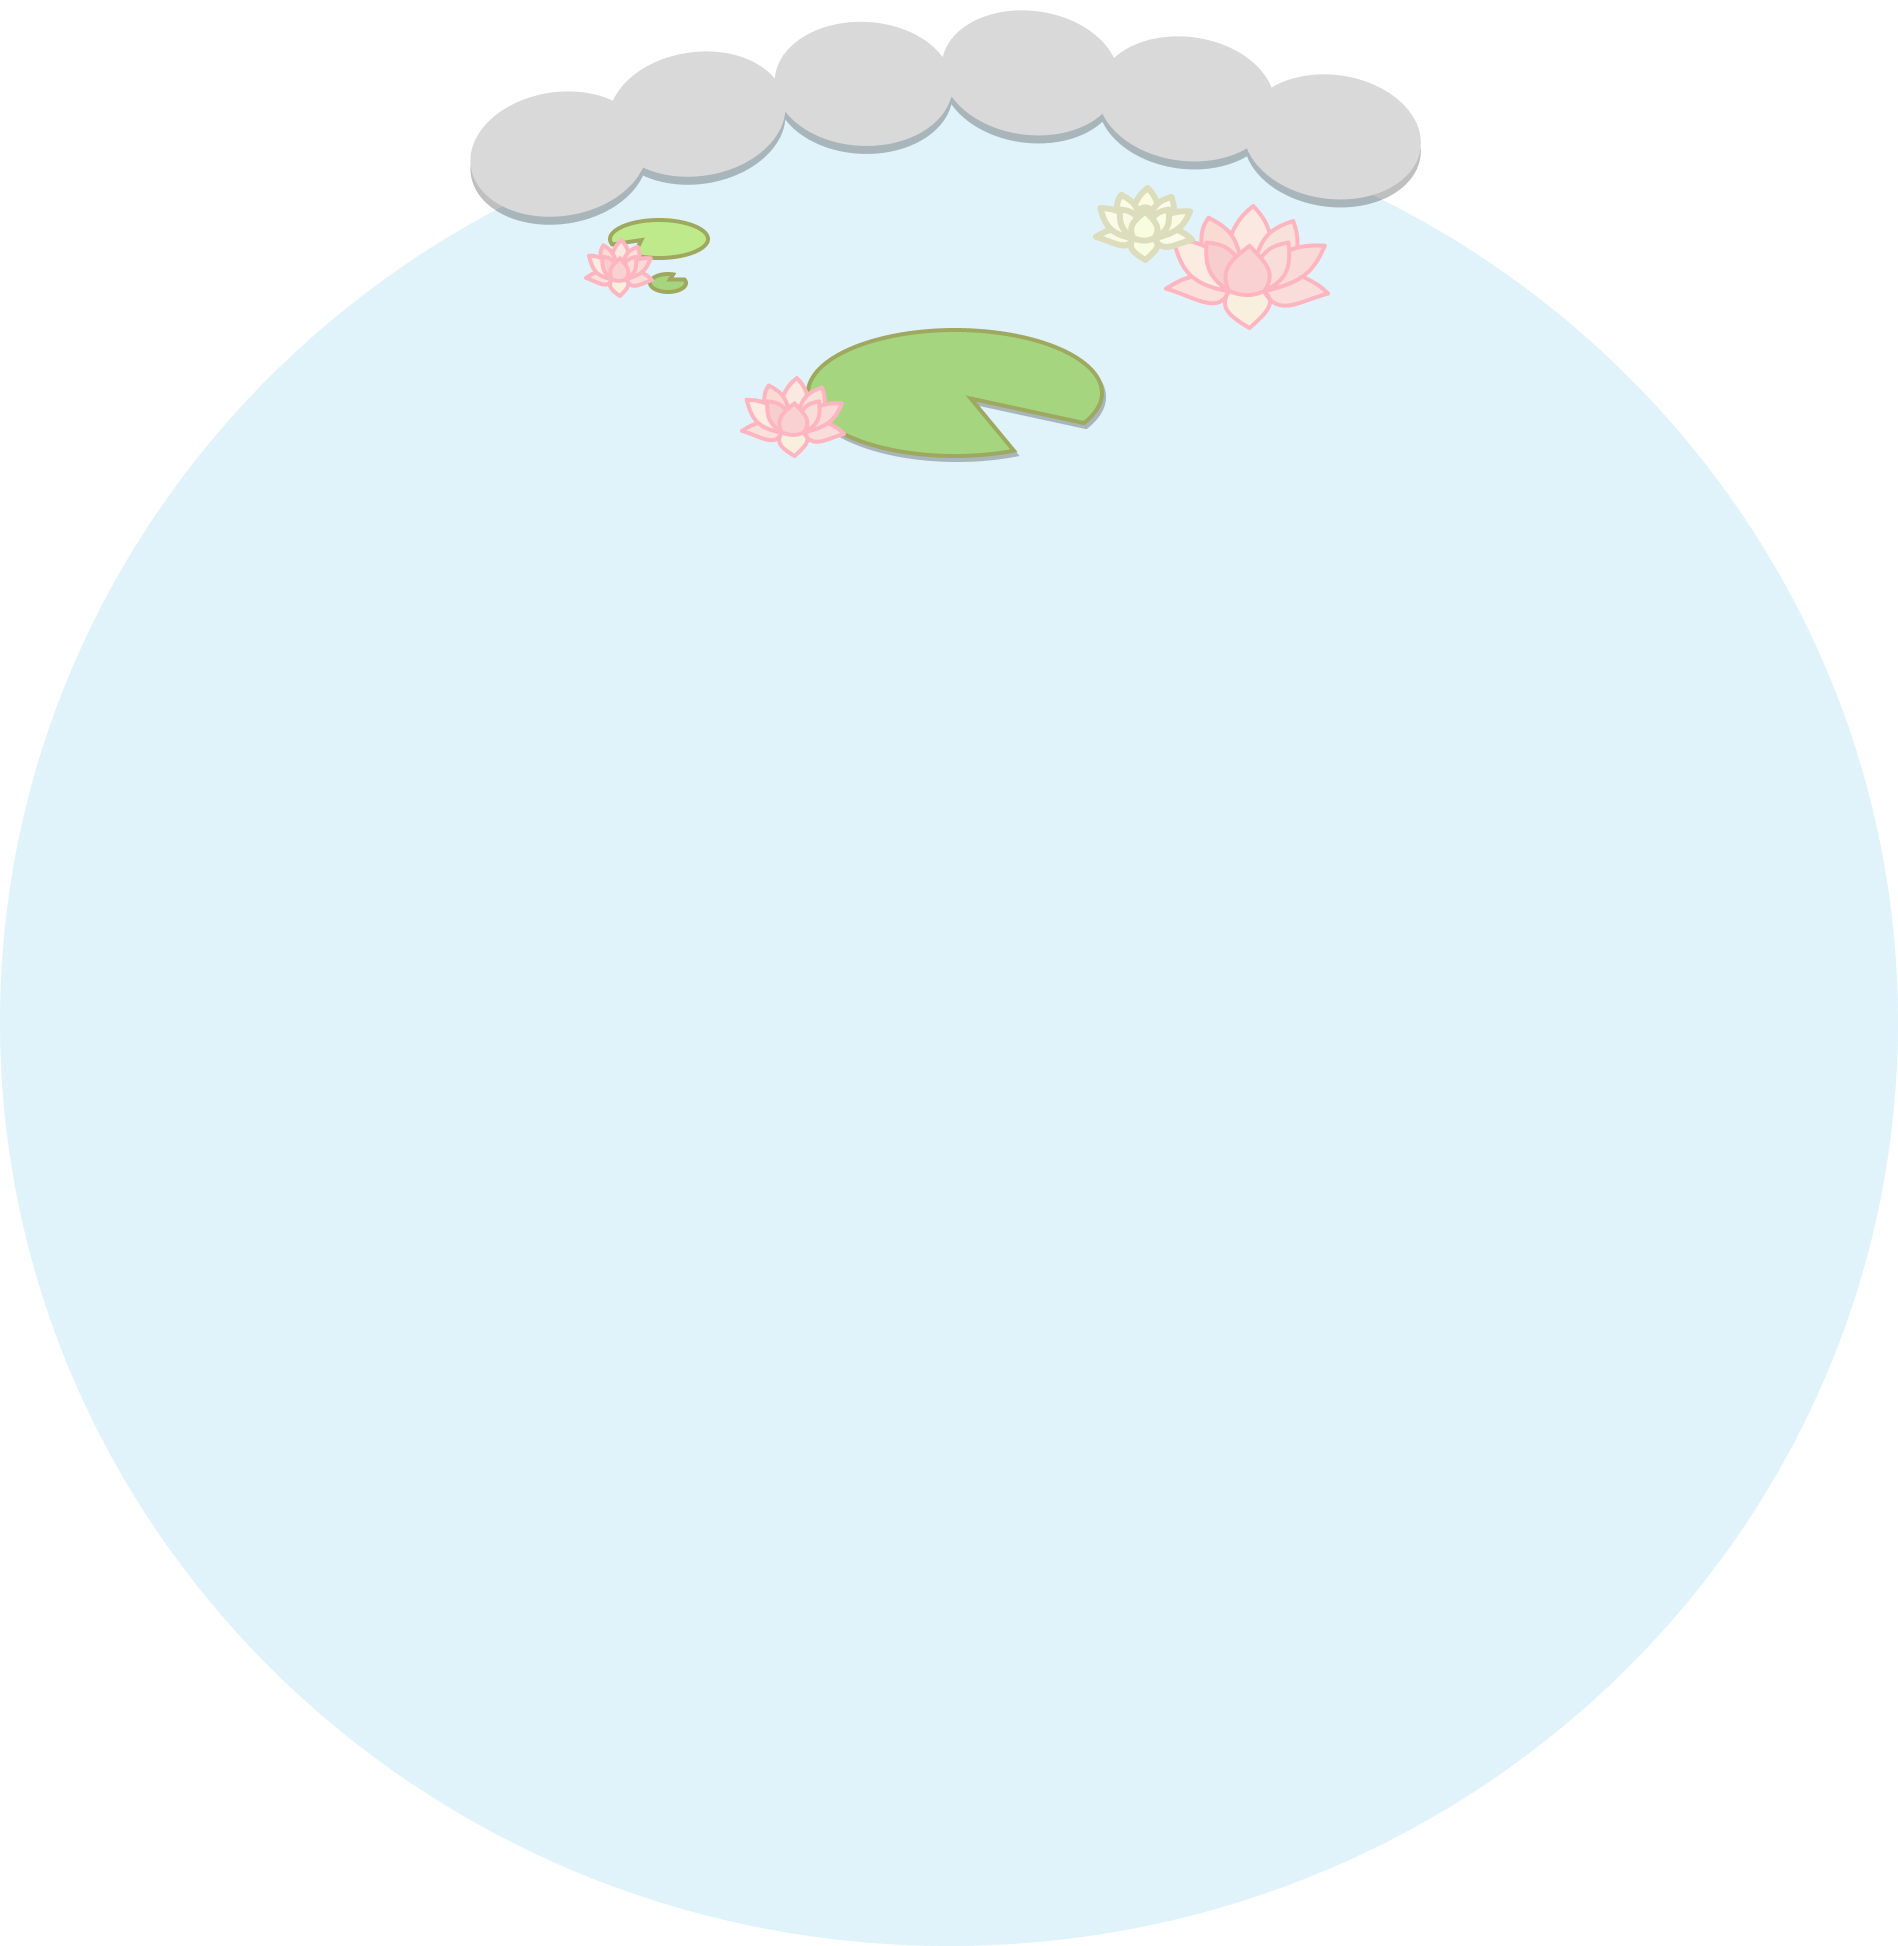
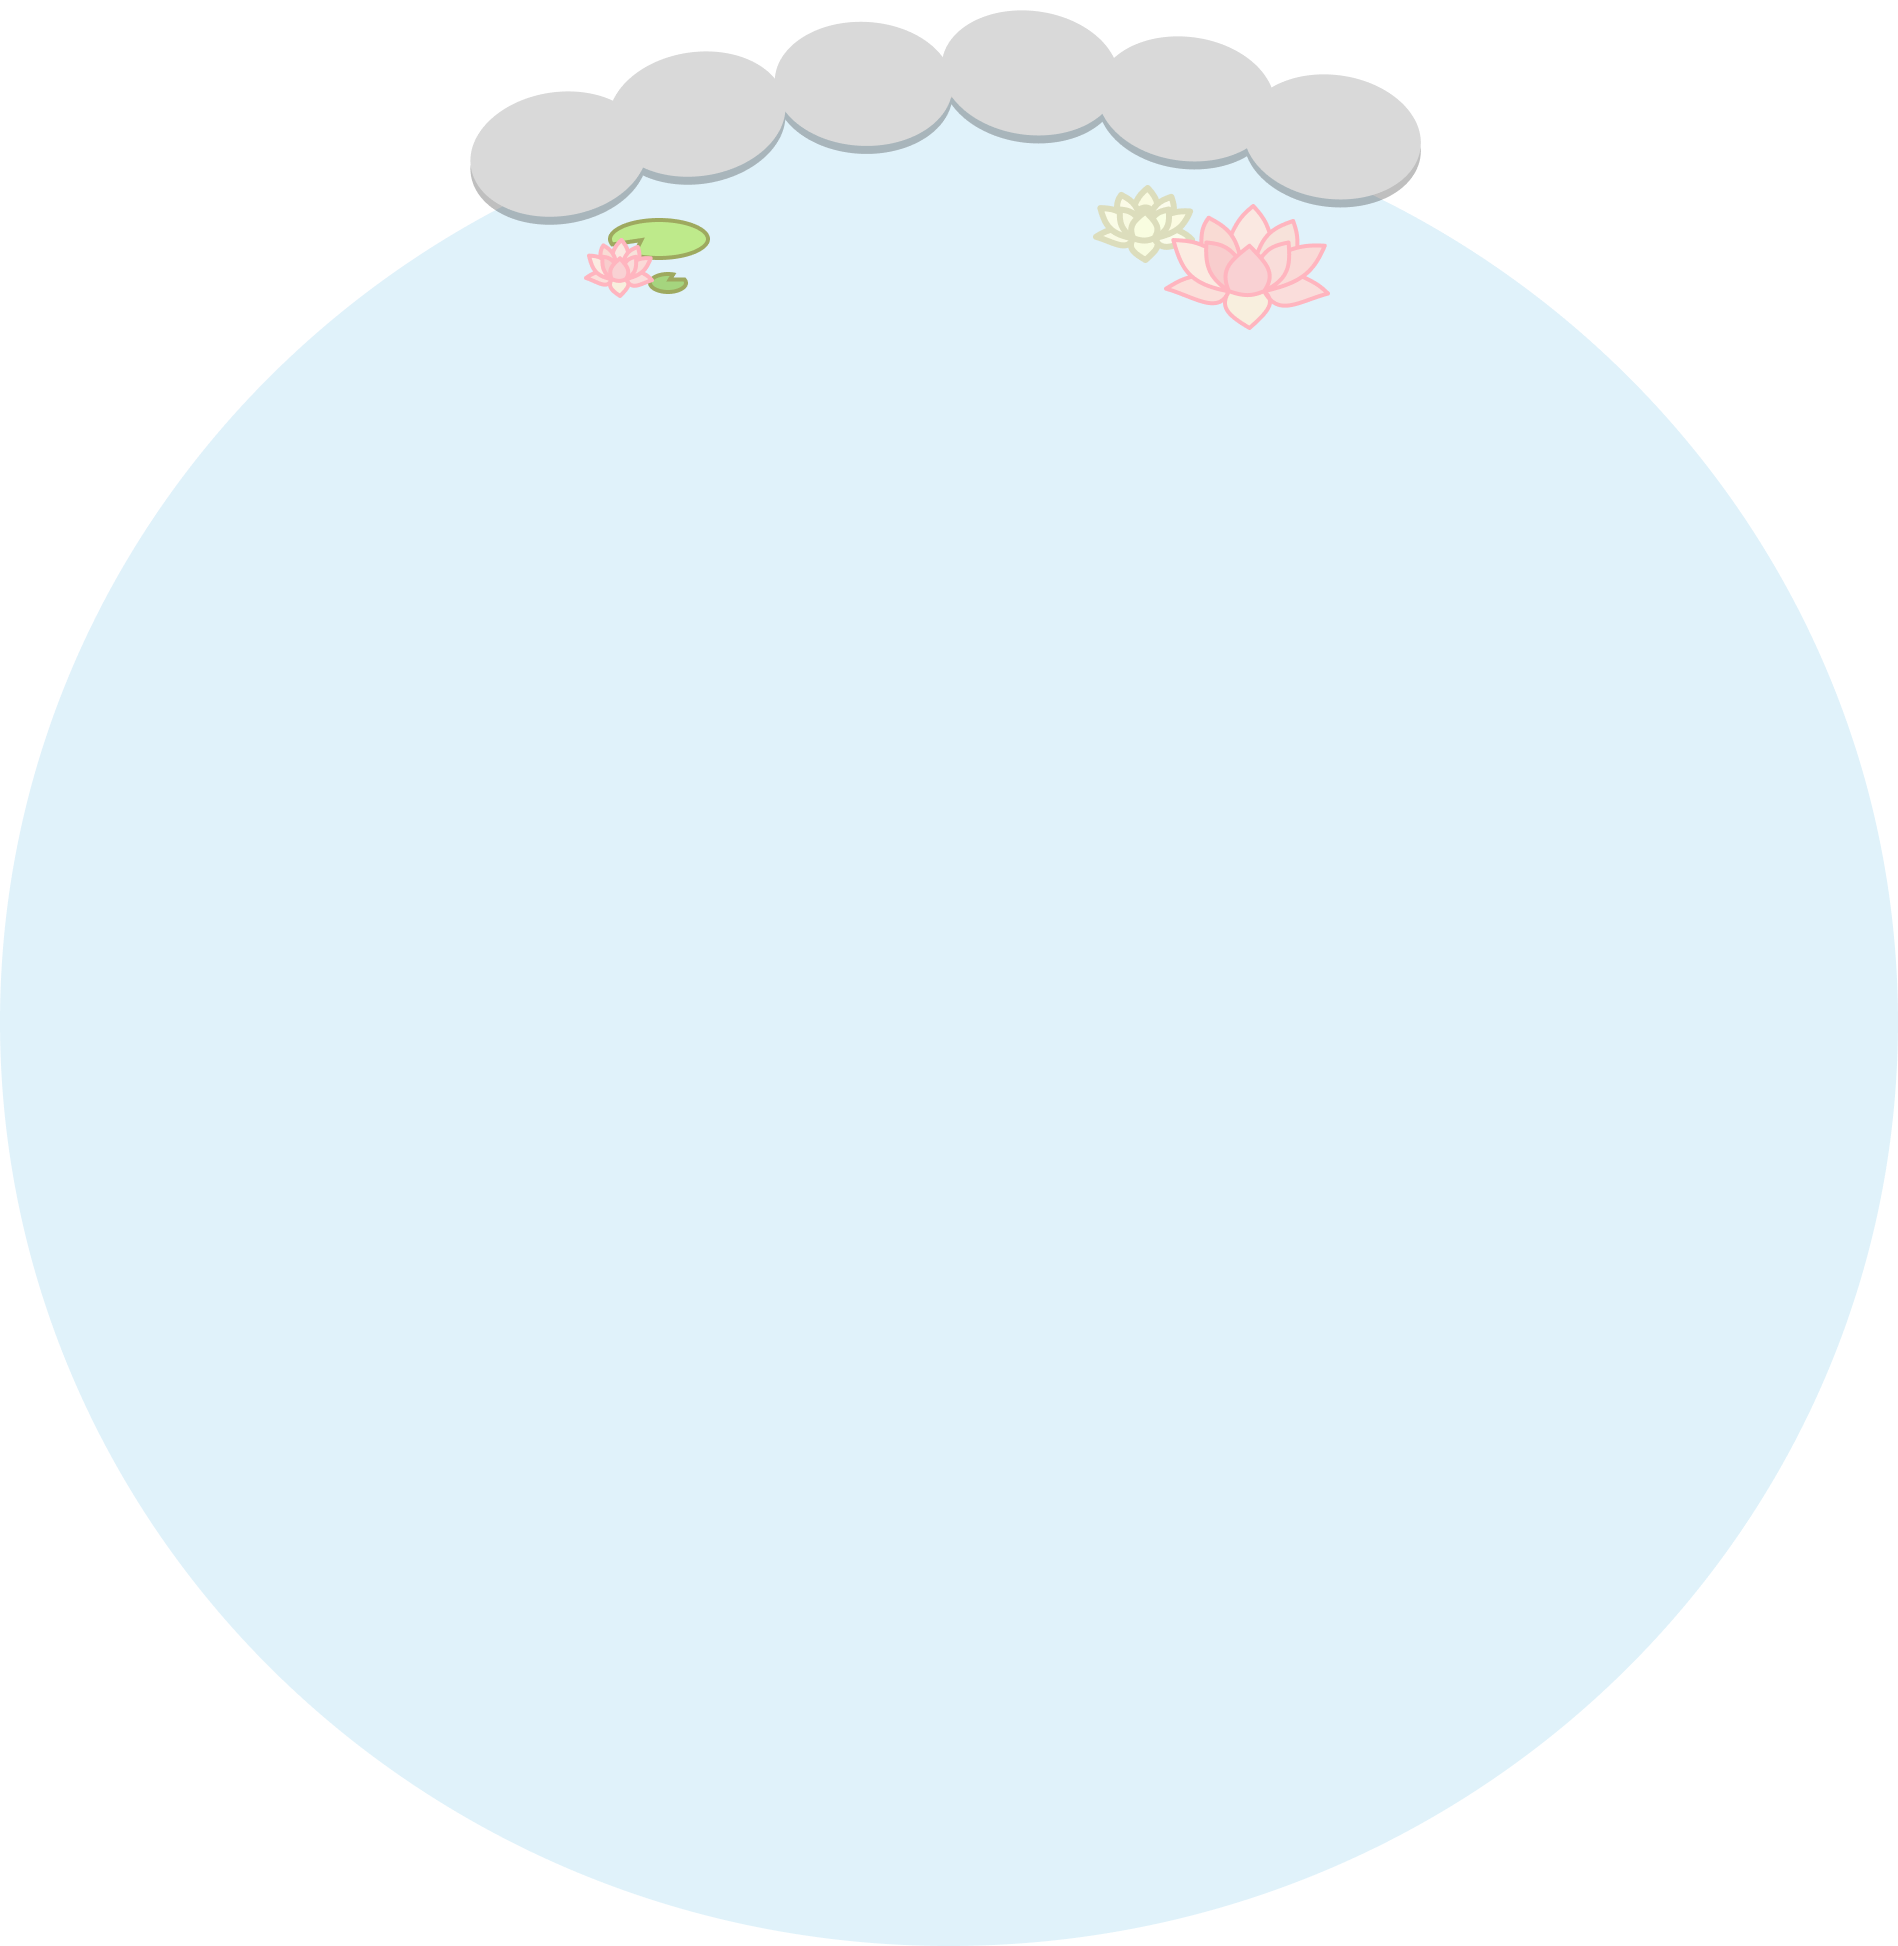
홈화면 그리니 위치 수정

Changed region(s): [[0.373, 0.1542, 0.5906, 0.2467]]

diff --git a/greeni-cli/src/screens/HomeScreen.js b/greeni-cli/src/screens/HomeScreen.js
@@ -531,7 +531,7 @@ export default function HomeScreen({ navigation }) {
 
       {/* 그리니 */}
       <Image
-        source={require("../assets/images/greeni_shy.png")}
+        source={require("../assets/images/pond_greeni.png")}
         style={styles.greeni}
         resizeMode="contain"
       />
@@ -608,6 +608,7 @@ const styles = StyleSheet.create({
 
   greeni: {
     height: H * 0.2,
+    marginRight: H * 0.04,
   },
 
   grid: {
